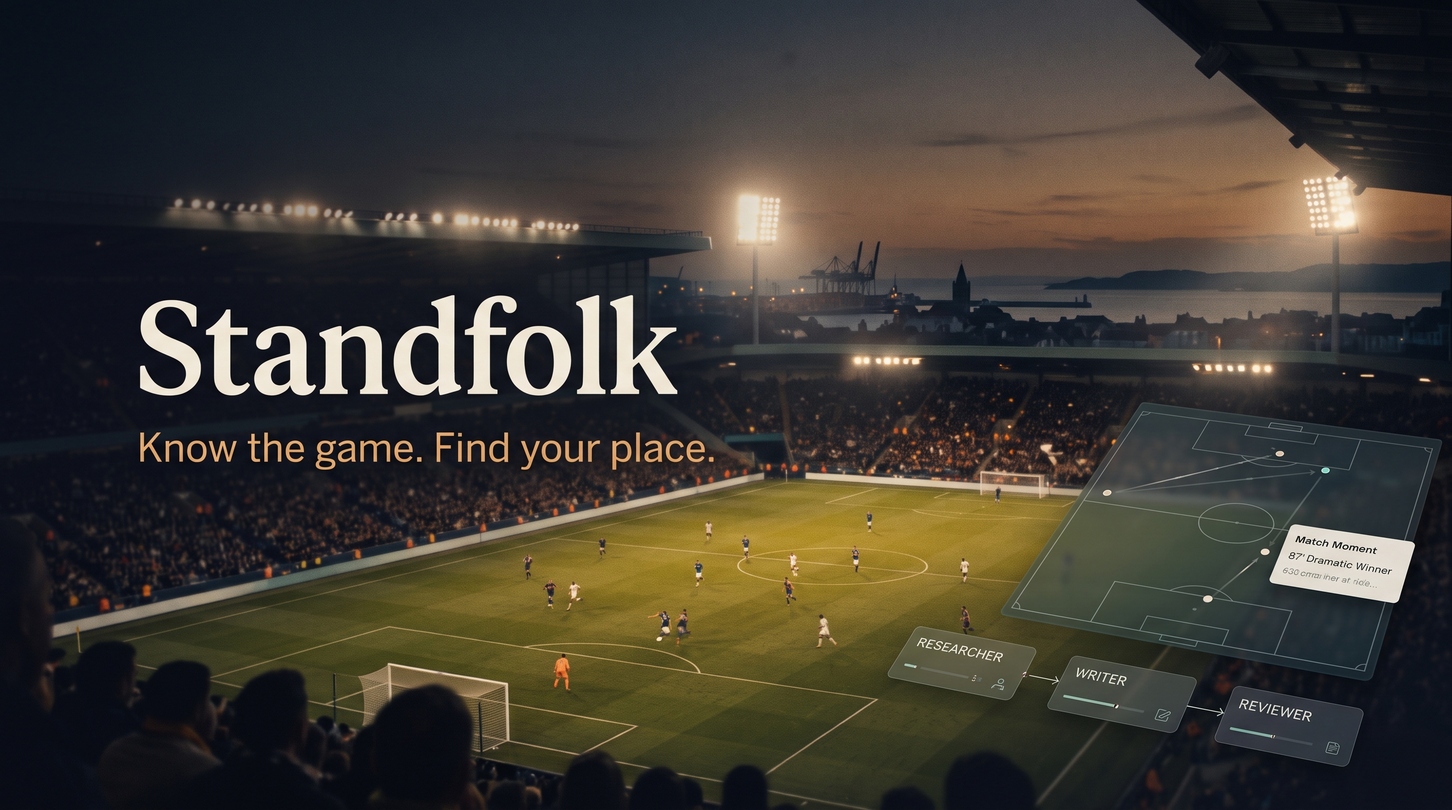
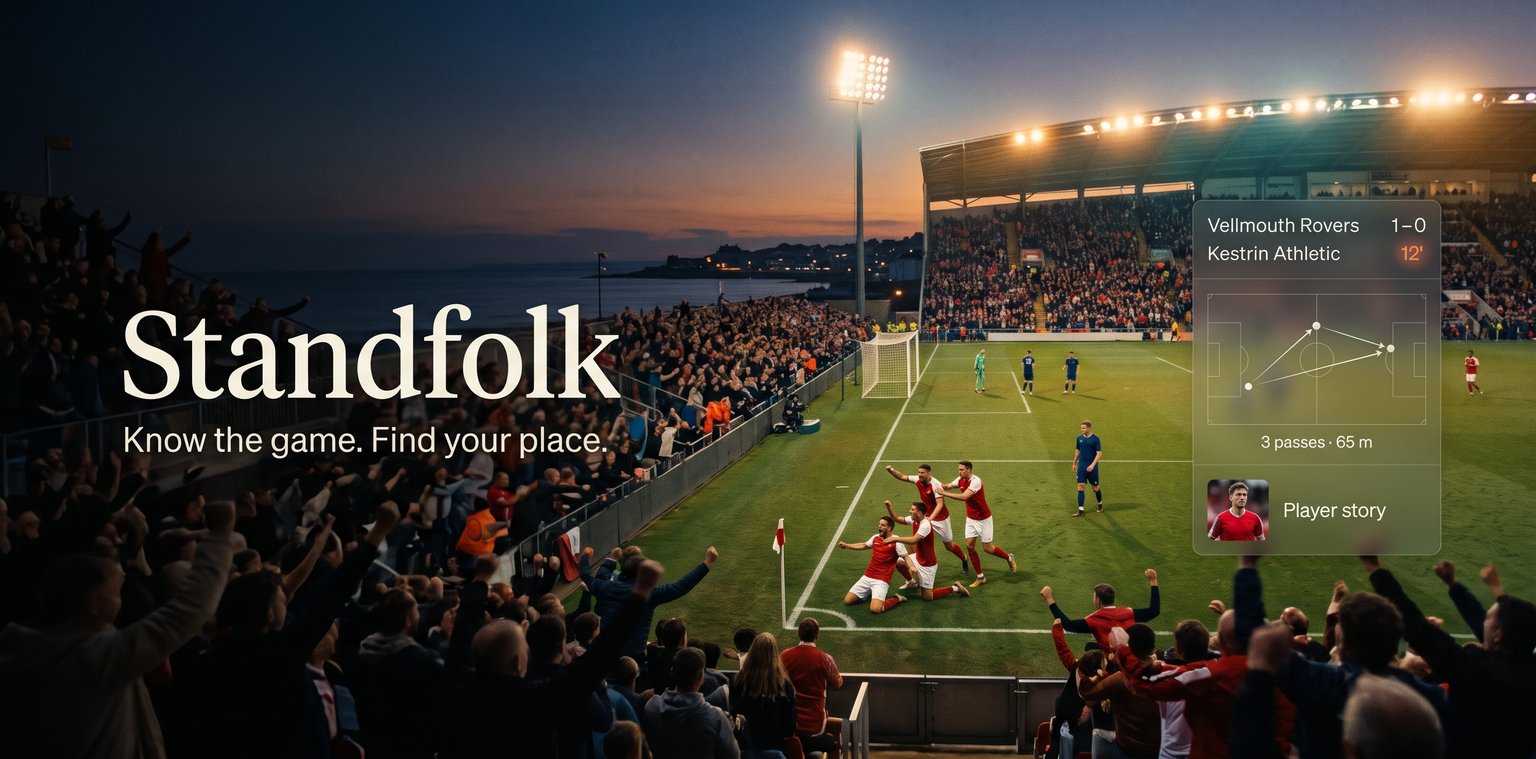
assets: update public Standfolk cover

diff --git a/README.md b/README.md
@@ -1,7 +1,7 @@
 # Standfolk
 
 <p align="center">
-  <img src="docs/media/standfolk-cover.jpeg" alt="Standfolk cover: a fictional harbour-side football ground with match analysis and a Researcher, Writer, Reviewer workflow" width="100%">
+  <img src="docs/media/standfolk-cover.jpeg" alt="Standfolk cover: Vellmouth Rovers celebrate a 12th-minute goal beside a graphic showing the three-pass, 65-metre build-up." width="100%">
 </p>
 
 <p align="center"><strong>Evidence-backed match stories for fans and broadcast teams.</strong></p>
